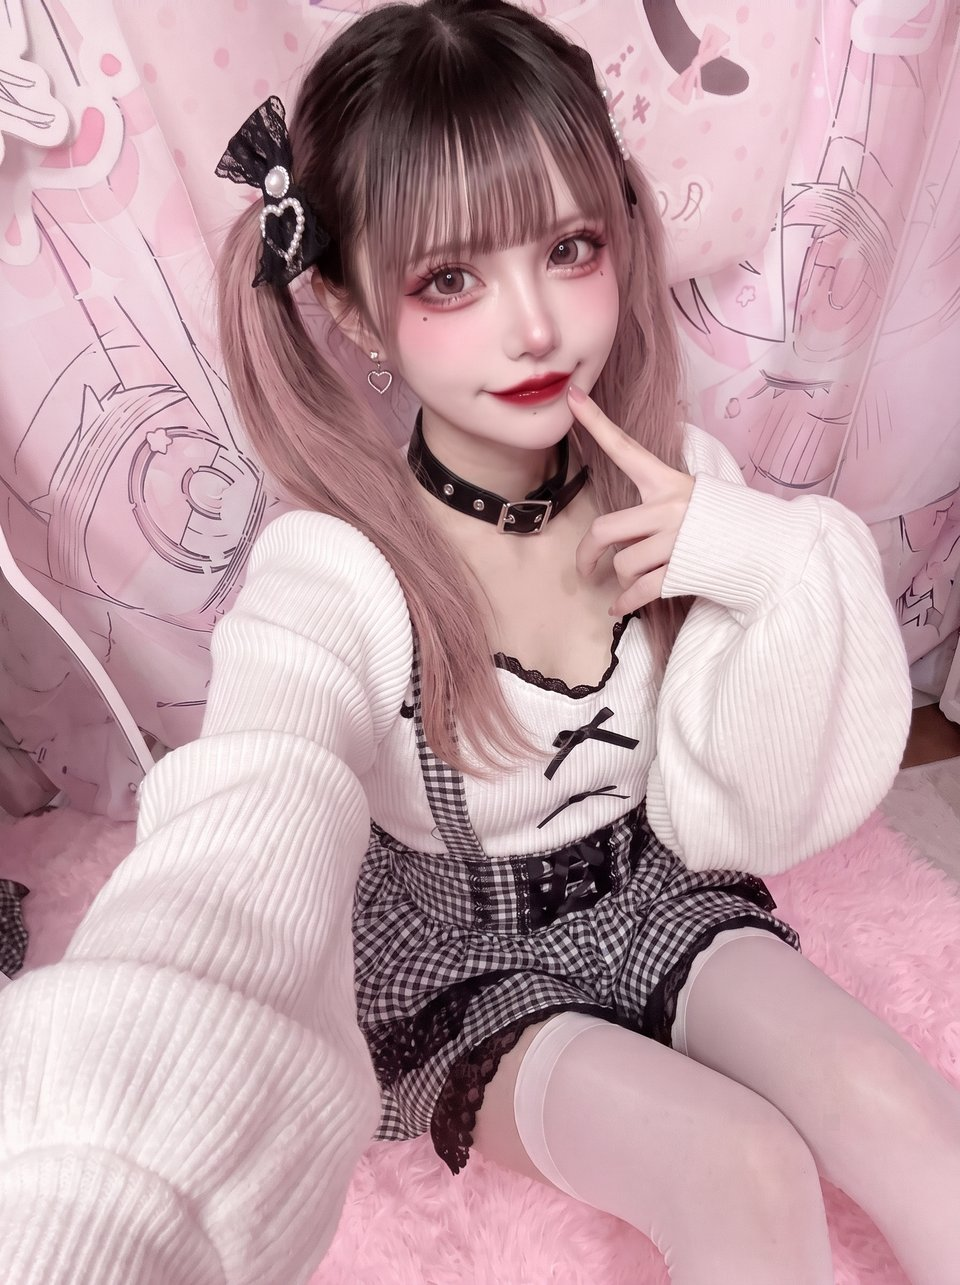
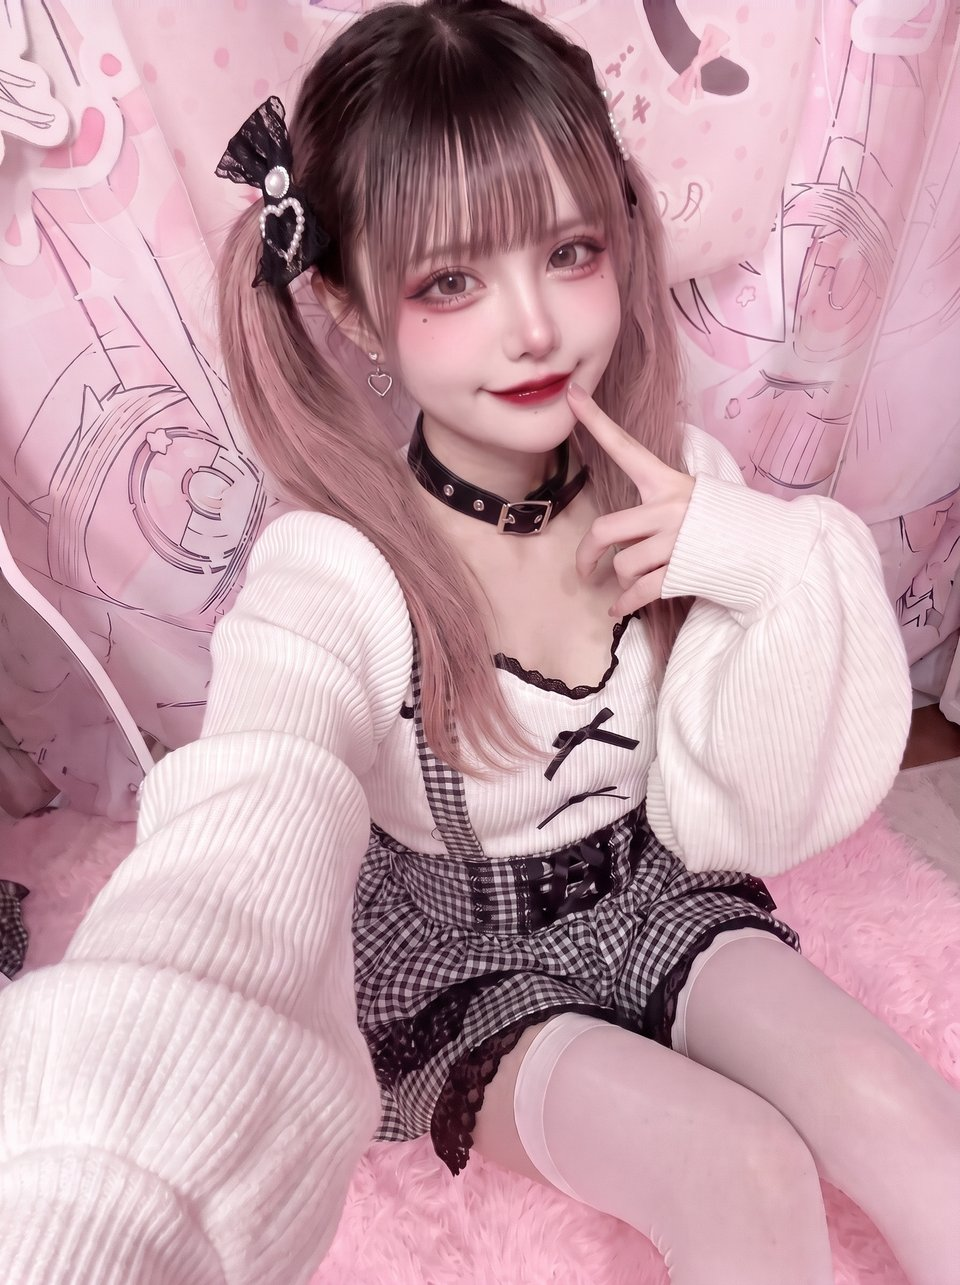
REPORT 追加 91: Kanon img2 face restored to 404 (b6674da3); v4 identity set and Element
Claude-Session: https://claude.ai/code/session_01Ew2uW1TgMHtHduaG53aSna

diff --git a/production/modeling_runs/2026-10-12_pioneer4/REPORT.md b/production/modeling_runs/2026-10-12_pioneer4/REPORT.md
@@ -1903,3 +1903,30 @@ Scene: cream brick wall with dark wood beams, blue sky with clouds at the top le
   - 對 Soul：約四到五成像（404 本身對 Soul 就只有五到六成）。
 - 可行的修法（待製作師）：以 20136a2c 為底，用 404 臉部裁切（media `68c76117`）當臉來源，Nano Banana 只換五官，2 點。注意：兩張頭部角度不同（自拍側傾 vs 404 近正面），依追加 35 的經驗可能拉不太動。
 - 點數：0。
+
+## 追加 91（2026-10-13）：Kanon 第二張換回 404 的臉；新三角度身分照與 v4 Element
+
+- 製作師：用第二張定稿配合 404 的臉，再用這張臉重做身分（跟 Nanami 一樣：三角度身分照＋Element；不是真正的 Soul 訓練）。
+
+### A. 第二張換臉
+- Nano Banana 2.1，底圖 `20136a2c`＋404 臉部裁切（media `68c76117`）＋v3 帶妝 3/4 側身分照（`d185503a`），只換五官，2k，2 點：**`b6674da3-248f-4eb8-be6f-5087414d3e70`**，https://d8j0ntlcm91z4.cloudfront.net/user_3EwEMQfGwzQsWNyf2tb24nCPjXS/hf_20261013_141912_b6674da3-248f-4eb8-be6f-5087414d3e70.png 。
+- 看圖（404／20136a2c／b6674da3 臉部並排）：臉頰變飽滿、下巴變圓、嘴唇變厚、鼻樑變低，對 404 從約六到七成拉到約七到八成；表情、妝、髮、衣服、背景不變。
+- **Kanon 第二張定稿改為 b6674da3**：`社群媒體/kanon/kanon_img2_jobb6674da3.jpg`（取代 kanon_img2_job20136a2c.jpg，舊檔已從 repo 移除，job 仍在 Higgsfield）。型錄圖已換。
+
+### B. 三角度身分照
+- 臉來源：b6674da3 臉部裁切（920×1000），media `d6666211-b3a0-4b74-88d6-a0ea0e8cfe3d`。規格同追加 62（頭到肩、平視、中性閉嘴、灰 T、無飾品、淺灰棚拍），保留地雷妝與髮色；Nano Banana 2.1，2k。
+
+| 角度 | job | 結果 |
+|---|---|---|
+| 正面 | `2fe0ee1a-9f80-4ab7-a8d4-315ef61fd7f8` | https://d8j0ntlcm91z4.cloudfront.net/user_3EwEMQfGwzQsWNyf2tb24nCPjXS/hf_20261013_142458_2fe0ee1a-9f80-4ab7-a8d4-315ef61fd7f8.png |
+| 3/4 側（第 1 次） | `e6601760-479f-458f-bbfd-70000c5790e9` | **NSFW**（中性大頭照也被擋；退點） |
+| 3/4 側（重送，寫明 22 歲成人、證件照） | `a4c248fb-ded2-49b4-9bcd-bc58e2eaded1` | https://d8j0ntlcm91z4.cloudfront.net/user_3EwEMQfGwzQsWNyf2tb24nCPjXS/hf_20261013_142842_a4c248fb-ded2-49b4-9bcd-bc58e2eaded1.png |
+| 側面 | `e3fb9859-7968-4195-a91e-f4e9e6700fe1` | https://d8j0ntlcm91z4.cloudfront.net/user_3EwEMQfGwzQsWNyf2tb24nCPjXS/hf_20261013_142541_e3fb9859-7968-4195-a91e-f4e9e6700fe1.png |
+
+- 看圖：三張是同一人，和 b6674da3 一致；側面是完整 90 度。3/4 側的妝較淡（眼影、唇色淺一點）。
+- 註：連穿灰 T 的中性大頭照都會被判 NSFW 一次，再次顯示平台把這張臉判為偏年幼。
+
+### C. v4 Element
+- **`kanon-face-v4-20261013`** id `38c439f5-d90e-4038-b3cd-97b8e1f7c6f3`（character，completed，0 點）：b6674da3 臉部裁切＋正面＋3/4＋側面（4 張）。之後 Kanon 用 v4；v2、v3 保留不用。
+
+- 點數：2＋2×3＝8 點（NSFW 那張已退點）。

diff --git a/production/modeling_runs/2026-10-12_pioneer4/HANDOFF_2026-10-13.md b/production/modeling_runs/2026-10-12_pioneer4/HANDOFF_2026-10-13.md
@@ -15,7 +15,7 @@
 | Wendy Yeo（冷艷女上司） | 形象照 v2 job 252 | `finals/wendy_v2_job252_db476121.jpg` | Soul `cb91c63f-0fa2-4c8f-94b2-a70a00acdbaf` |
 | Vicky Lin（陽光體育系辣妹） | 形象照 v2 job 314 | `finals/vicky_v2_job314_10747f77.jpg` | Soul `bdb1d879-da36-4c1a-bc63-9f5b49a3e94e` |
 | Vicky Lin | 第二張（泳池擦防曬，4:3）job 331 | `finals/vicky_img2_job331_de35186e.jpg` | 同上 |
-| Kanon Komori（地雷系萌妹） | 形象照 v1 job 404 | `finals/kanon_v1_job404_ce9d284c.jpg` | Element `56db152d-0986-4b2a-b5eb-385501739847`（404 的臉，製作師選定為新身分錨） |
+| Kanon Komori（地雷系萌妹） | 形象照 v1 job 404；第二張 job b6674da3（追加 91） | `社群媒體/kanon/` | Element v4 `38c439f5-d90e-4038-b3cd-97b8e1f7c6f3`（追加 91） |
 | Nanami Fujiwara（成熟溫柔少婦） | 形象照 v2 job 253n | `finals/nanami_v2_job253n_9afdfb27.jpg` | Soul `78761266…`（全 ID 見 `2026-10-08_batch1/SELECTION_2026-10-08.md`） |
 
 - 舊版（wendy_v1、vicky_v1、nanami_v1）留在 finals 備查，不再使用。
